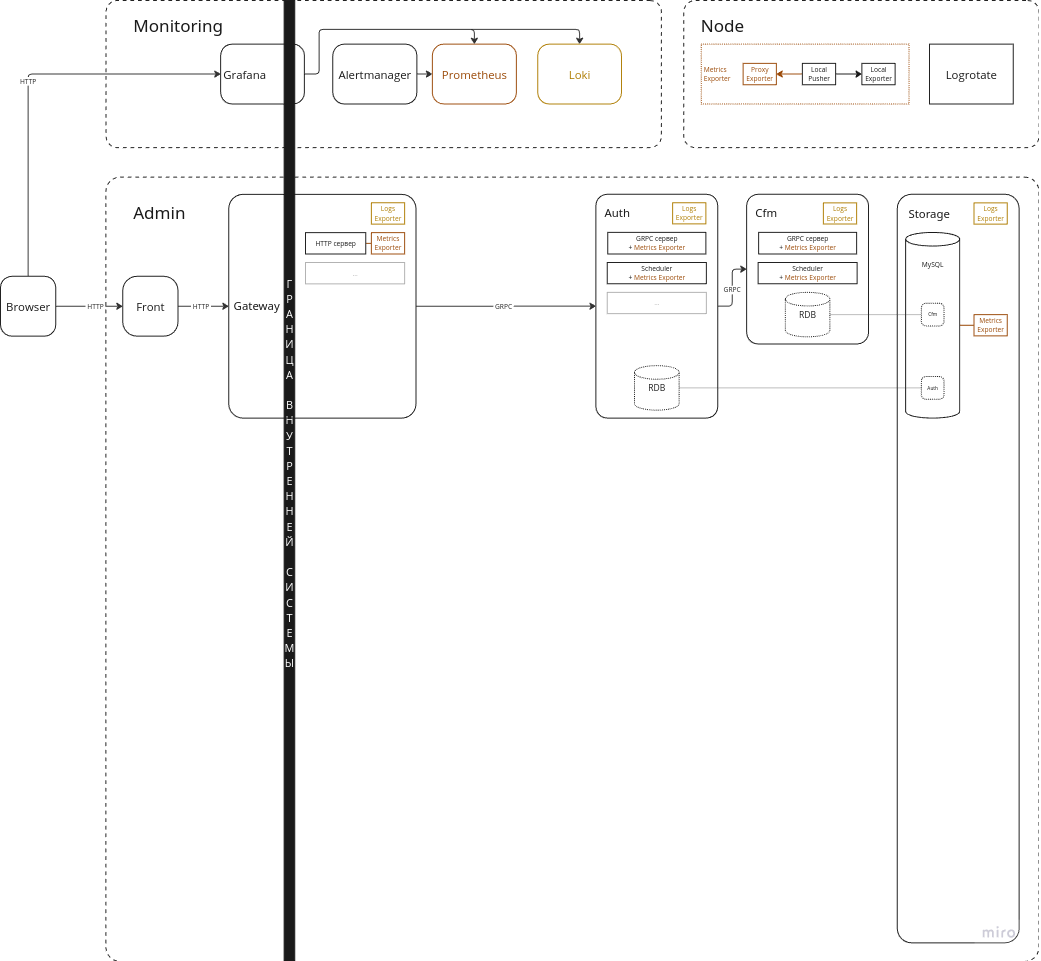
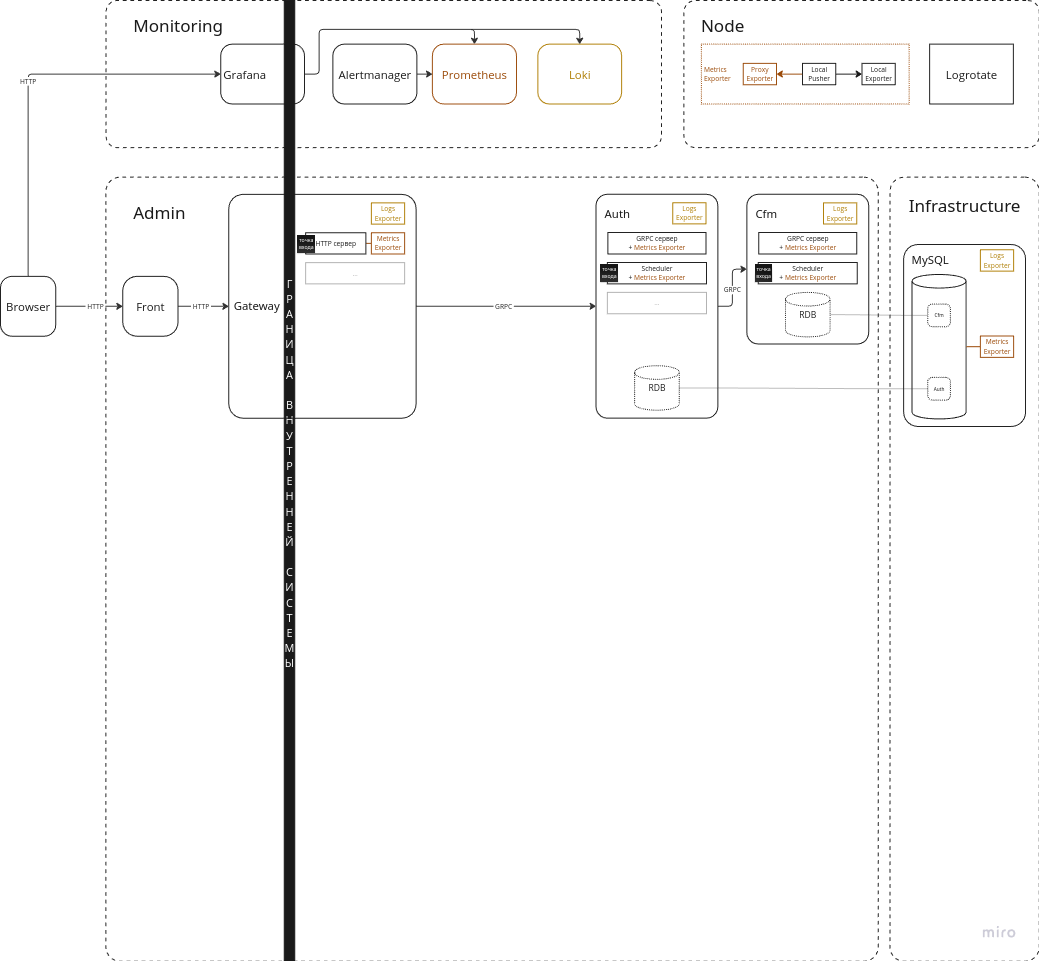
Рефакторинг. `admin/storage` --> `infrastructure/mysql`.

diff --git a/README.md b/README.md
@@ -6,11 +6,14 @@
 ## Общая структура
 
 - [`admin`](admin) -- приложение-админка.
-   - [`auth`](admin/auth) -- сервис авторизации.
-   - [`cfm`](admin/cfm) -- сервис отправки OTP-кодов подтверждений.
-   - [`front`](admin/front) -- см. [admin/front/README.md](admin/front/README.md).
-   - [`gateway`](admin/gateway) -- api-шлюз для BE, точка входа.
-   - [`storage`](admin/storage) -- общий сервис БД, выделенный в отдельный компонент для простоты использования.
+  - [`auth`](admin/auth) -- сервис авторизации.
+  - [`cfm`](admin/cfm) -- сервис отправки OTP-кодов подтверждений.
+  - [`front`](admin/front) -- см. [admin/front/README.md](admin/front/README.md).
+  - [`gateway`](admin/gateway) -- api-шлюз для BE, точка входа.
+
+
+- [`infrastructure`](infrastructure) -- инфраструктурные элементы, вынесенные отдельно для упрощения.
+  - [`mysql`](infrastructure/mysql)  
 
 
 - [`monitoring`](monitoring) -- приложение для мониторинга системы.

diff --git a/README_dev.md b/README_dev.md
@@ -46,7 +46,7 @@
 2. Переопределяем нужные сервисы-бд, пробрасывая локальные порты.
    Например,
    ```
-   admin-storage-mysql-replica:
+   infrastructure-mysql-replica:
       ports:
          127.0.0.1:3307:3306
    ```